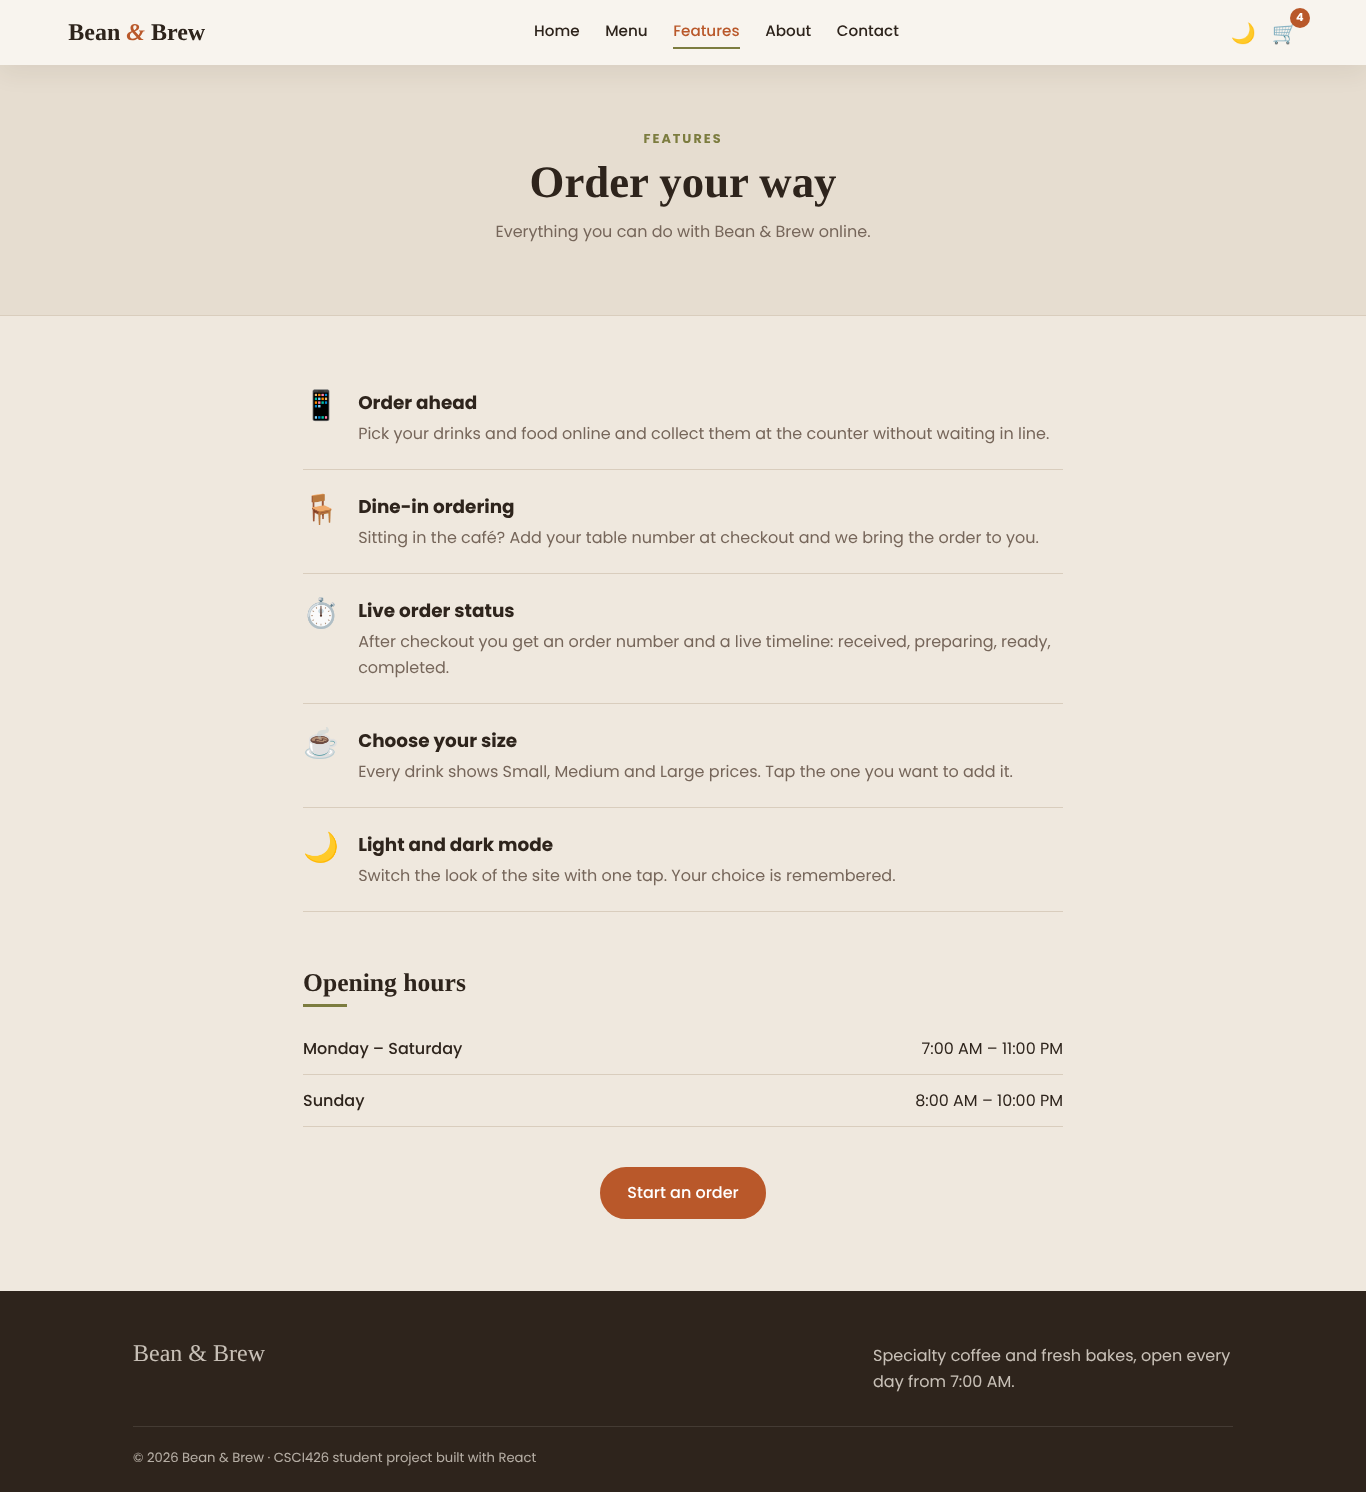
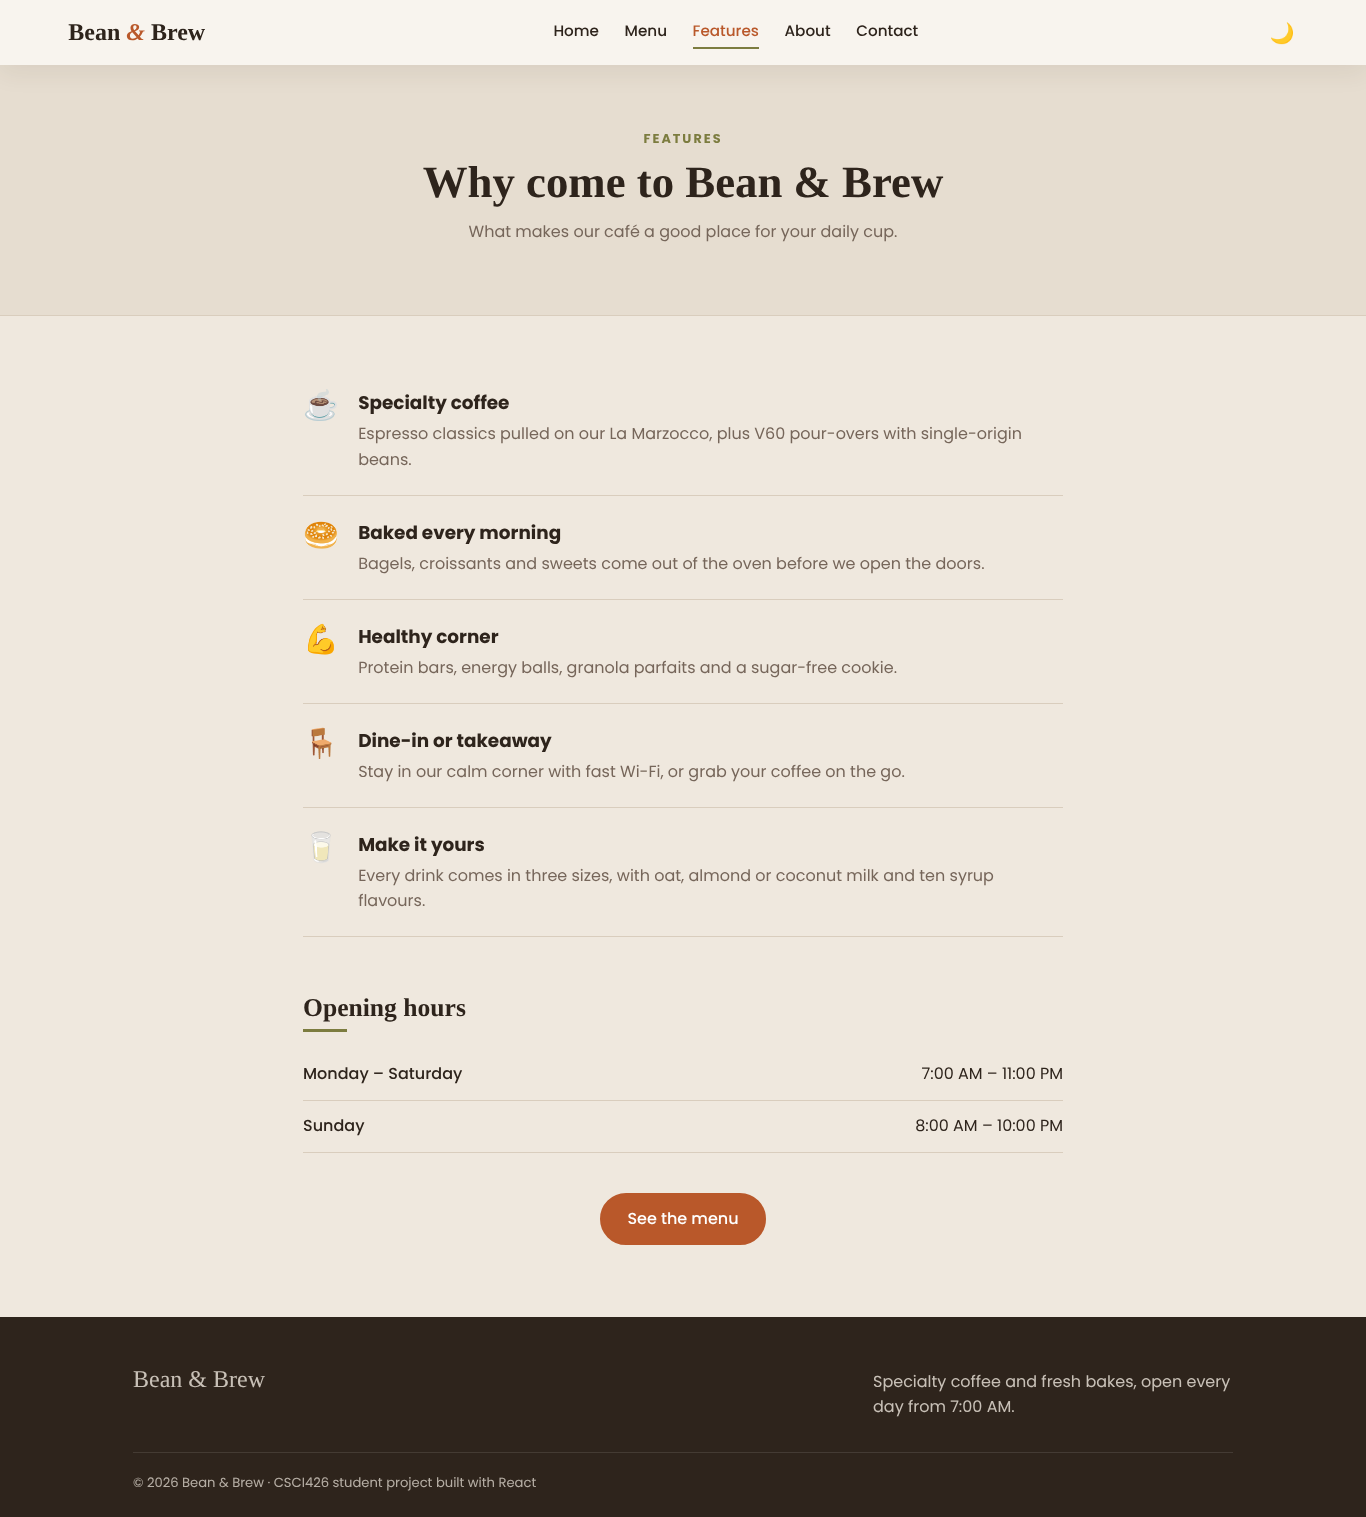
Update README and screenshots for menu-only site
Claude-Session: https://claude.ai/code/session_01LR3cw2SpXsWQ5PTJ6R9Kn3

diff --git a/README.md b/README.md
@@ -1,7 +1,7 @@
-# Bean & Brew — Coffee Shop Ordering Website
+# Bean & Brew — Coffee Shop Website
 
 **CSCI426 Advanced Web Programming — Project Phase 1**
-Theme: *Restaurant Ordering System* (menu display, cart and order tracking)
+Theme: Coffee shop menu website (based on Theme 4, Restaurant System: menu display)
 
 🔗 **Live demo:** `https://YOUR-LINK-HERE` *(replace after deploying)*
 🔗 **Repository:** `https://github.com/YOUR-USERNAME/bean-and-brew`
@@ -11,12 +11,12 @@ Theme: *Restaurant Ordering System* (menu display, cart and order tracking)
 ## Project description
 
 Bean & Brew is a frontend web application for a specialty coffee shop. It solves a real problem
-for busy customers: waiting in line to read the menu and order. With the website, a customer can:
+for customers: reading a long menu on a small paper board while standing in line. With the website, a customer can:
 
 - Browse the full café menu (120+ items) by category, with Small / Medium / Large prices for drinks
-- Add items to a cart, change quantities and place an order as **takeaway** or **dine-in**
-- Get an order number and **follow the order live** (Received → Preparing → Ready → Completed)
-- See the site's features and opening hours, read about the café, and send a message through a validated contact form
+- Switch between Drinks, Food, Bars & Mixes and Sweets with tabs at the top of the menu
+- See the add-ons (milk, extra ingredients, syrups) and their prices
+- Read about the café's features and opening hours, and send a message through a validated contact form
 
 The site is fully responsive (desktop, tablet and phone) and has a light and dark mode.
 
@@ -26,19 +26,16 @@ The site is fully responsive (desktop, tablet and phone) and has a light and dar
 |---|---|---|
 | `/` | Home | Static |
 | `/menu/:categoryId` | Menu with tabs for drinks, food, bars & mixes, sweets (`/menu` opens drinks) | **Dynamic** |
-| `/features` | Features (order ahead, dine-in, live status, sizes, dark mode) and opening hours | Static |
+| `/features` | Café features and opening hours | Static |
 | `/about` | About the café | Static |
 | `/contact` | Contact info and form with validation | Static |
-| `/cart` | Cart and checkout | Interactive |
-| `/order/:orderId` | Live status of one order, shown after checkout | **Dynamic** |
 | `*` | 404 page | Static |
 
 ## Technologies
 
-- **React 18** (functional components and hooks: `useState`, `useEffect`, `useContext`)
-- **React Router 6** (`HashRouter`, dynamic routes with `useParams`, `useNavigate`, `Navigate`)
-- **Context API** for the shared shopping cart
-- **localStorage** to keep the cart, orders and theme after a refresh
+- **React 18** (functional components and hooks: `useState`, `useEffect`)
+- **React Router 6** (`HashRouter`, a dynamic route with `useParams`, `NavLink`, `Navigate`)
+- **localStorage** to remember the light / dark theme
 - **Vite** for the dev server and build
 - **CSS3** (custom properties for theming, Flexbox, Grid, media queries) — no UI framework
 - **Git & GitHub** for version control, **Vercel / GitHub Pages** for hosting
@@ -74,10 +71,8 @@ bean-and-brew/
 ├── screenshots/                UI screenshots used in this README
 ├── src/
 │   ├── components/             Navbar, Footer, PageHeader, MenuSection, Extras
-│   ├── context/CartContext.jsx Shared cart state (Context API)
 │   ├── data/menu.js            All menu sections, items, prices and categories
-│   ├── pages/                  One file per page (Home, Category, Features, About, Contact, Cart, ...)
-│   ├── utils/orders.js         Save, find and track orders
+│   ├── pages/                  One file per page (Home, Category, Features, About, Contact, NotFound)
 │   ├── App.jsx                 Layout and routes
 │   ├── main.jsx                Entry point (router + cart provider)
 │   └── index.css               All styles, light and dark theme
@@ -88,27 +83,21 @@ bean-and-brew/
 
 ## Screenshots
 
-| Menu category (dynamic page) | Cart & checkout |
+| Menu (dynamic page) | Food tab |
 |---|---|
-| ![Drinks](screenshots/category-drinks.png) | ![Cart](screenshots/cart.png) |
-
-| Order status (dynamic page) | Contact |
-|---|---|
-| ![Order status](screenshots/order-tracking.png) | ![Contact](screenshots/contact.png) |
+| ![Drinks](screenshots/category-drinks.png) | ![Food](screenshots/category-food.png) |
 
 | Features | About |
 |---|---|
 | ![Features](screenshots/features.png) | ![About](screenshots/about.png) |
 
-| Dark mode | Mobile |
+| Contact | Dark mode |
 |---|---|
-| ![Dark mode](screenshots/home-dark.png) | ![Mobile menu](screenshots/mobile-menu.png) |
+| ![Contact](screenshots/contact.png) | ![Dark mode](screenshots/home-dark.png) |
 
-## Notes
-
-- This is a frontend-only project. Orders are stored in the browser's localStorage and the status
-  timeline is simulated (it moves forward every 30–90 seconds) to demonstrate order tracking.
-- Payment is not handled online; customers pay at the counter.
+| Mobile home | Mobile menu |
+|---|---|
+| ![Mobile home](screenshots/mobile-home.png) | ![Mobile menu](screenshots/mobile-menu.png) |
 
 ## Credits
 
